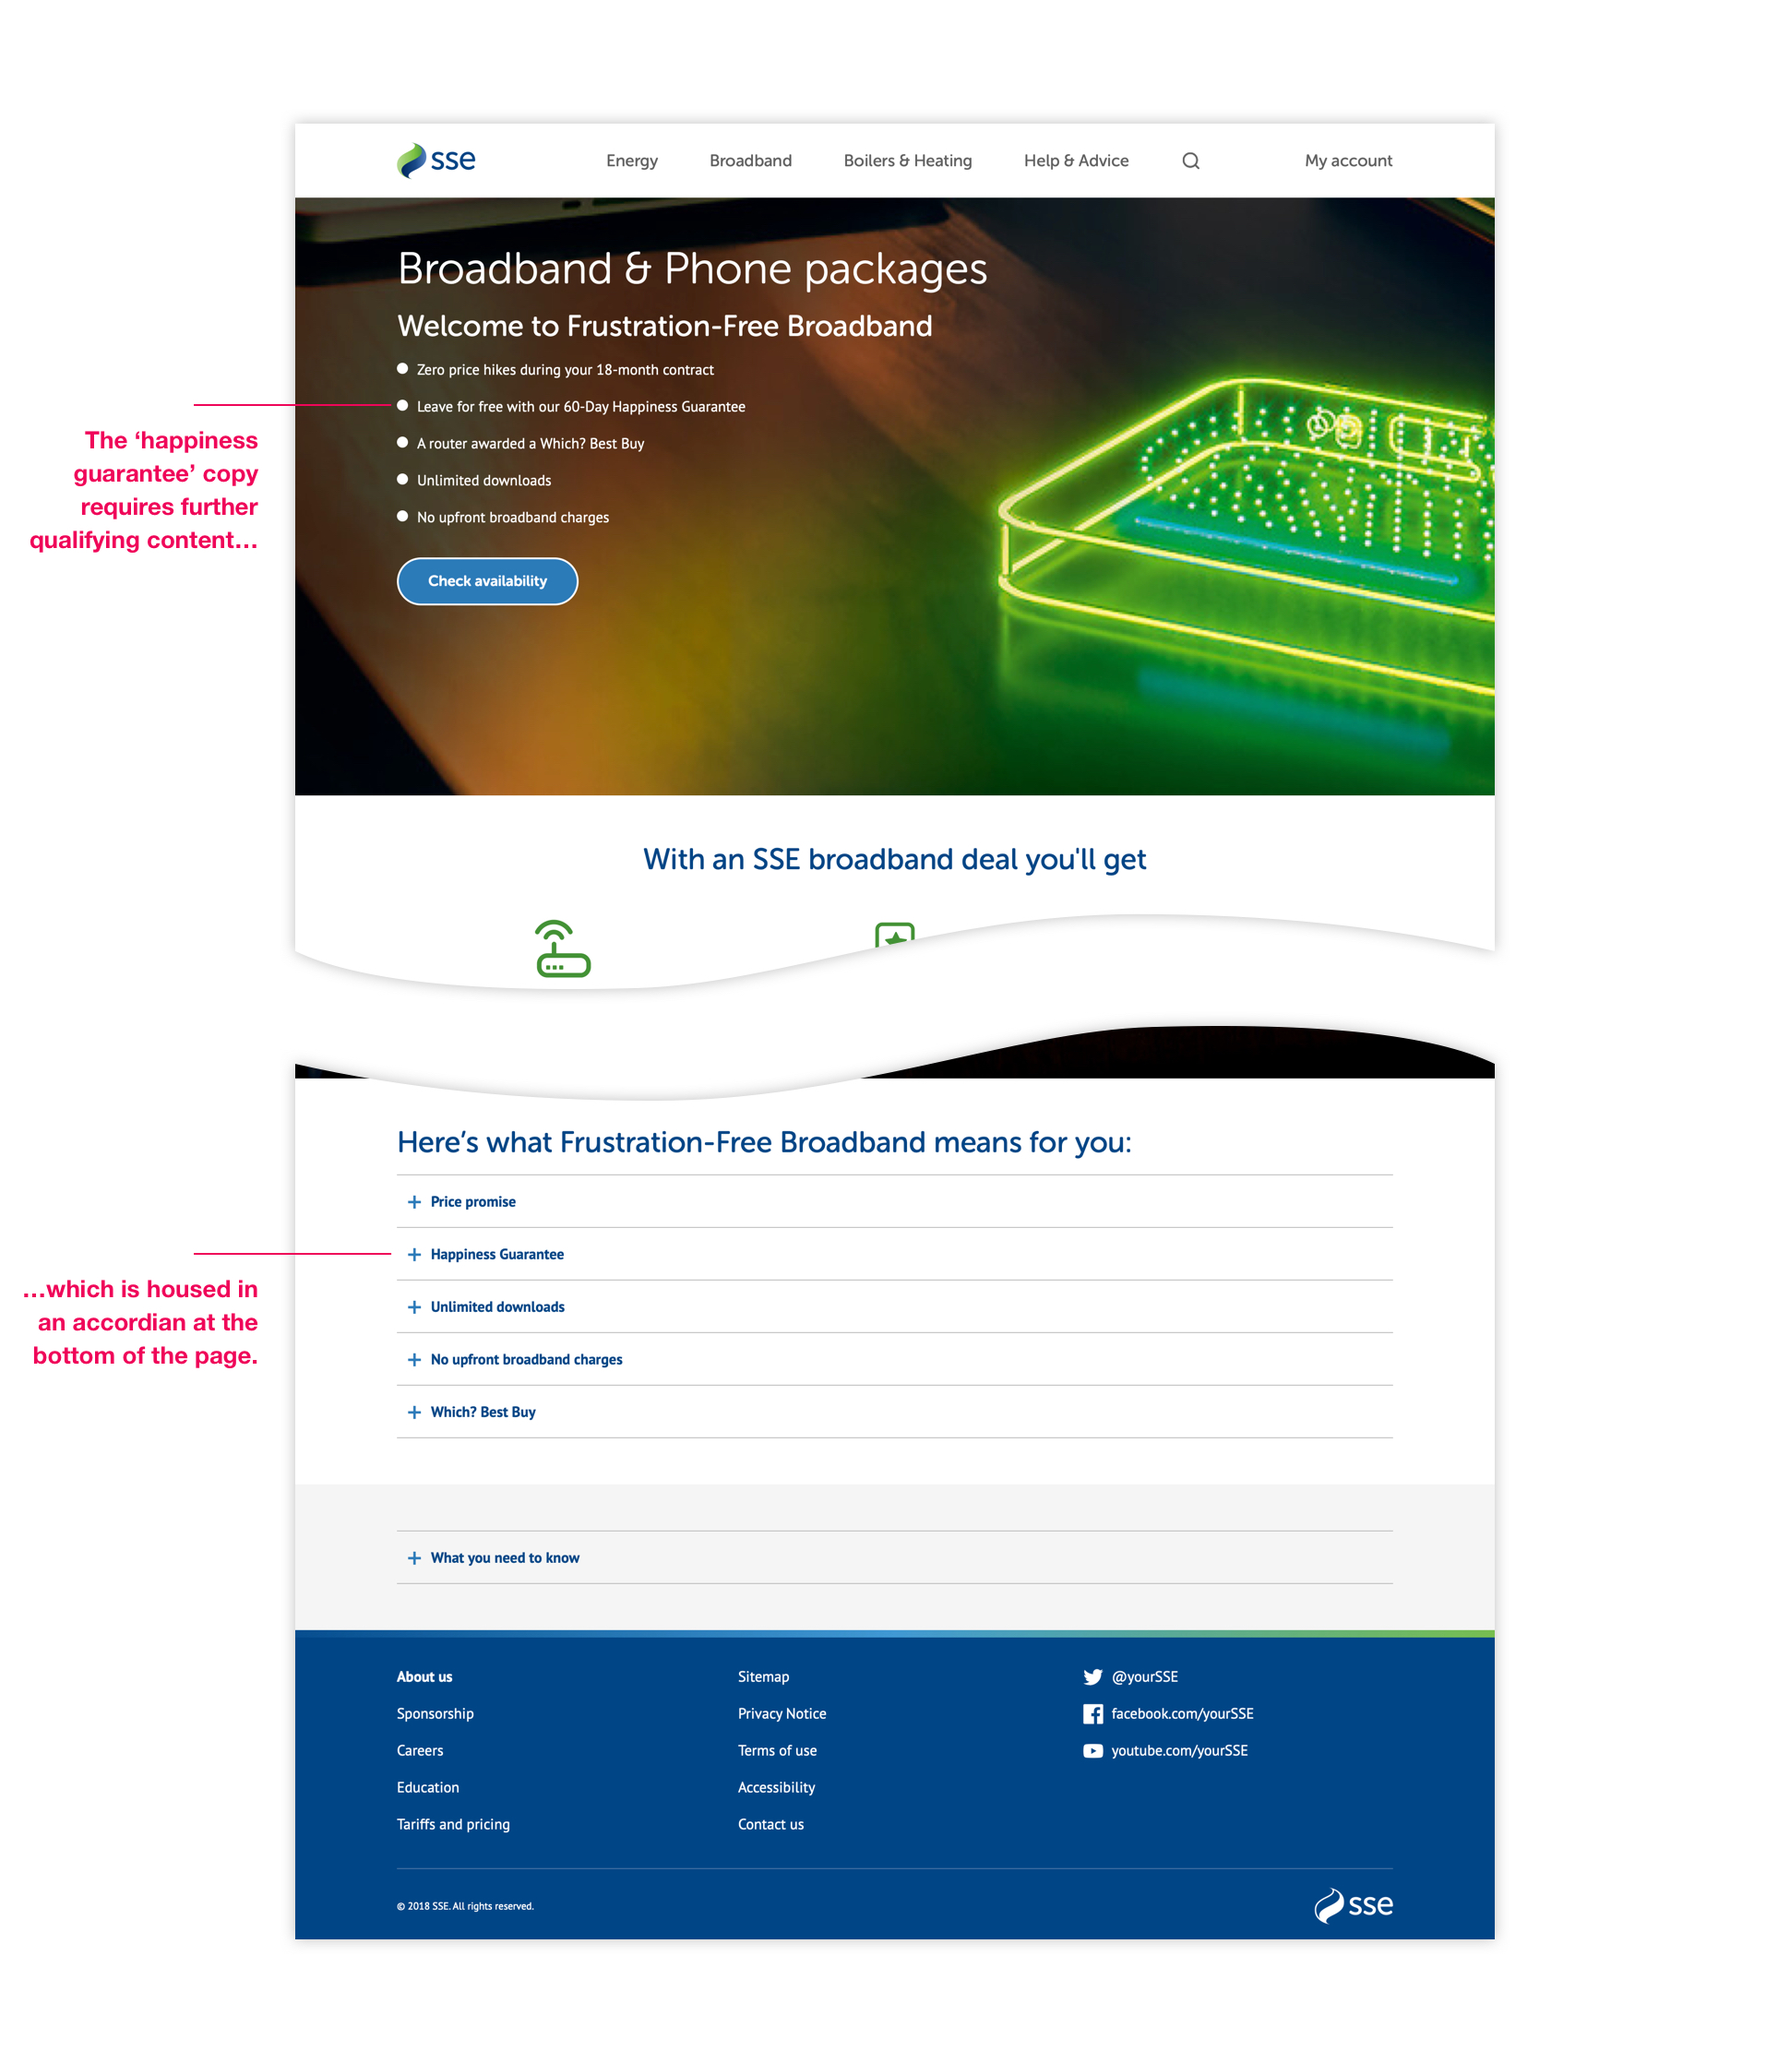
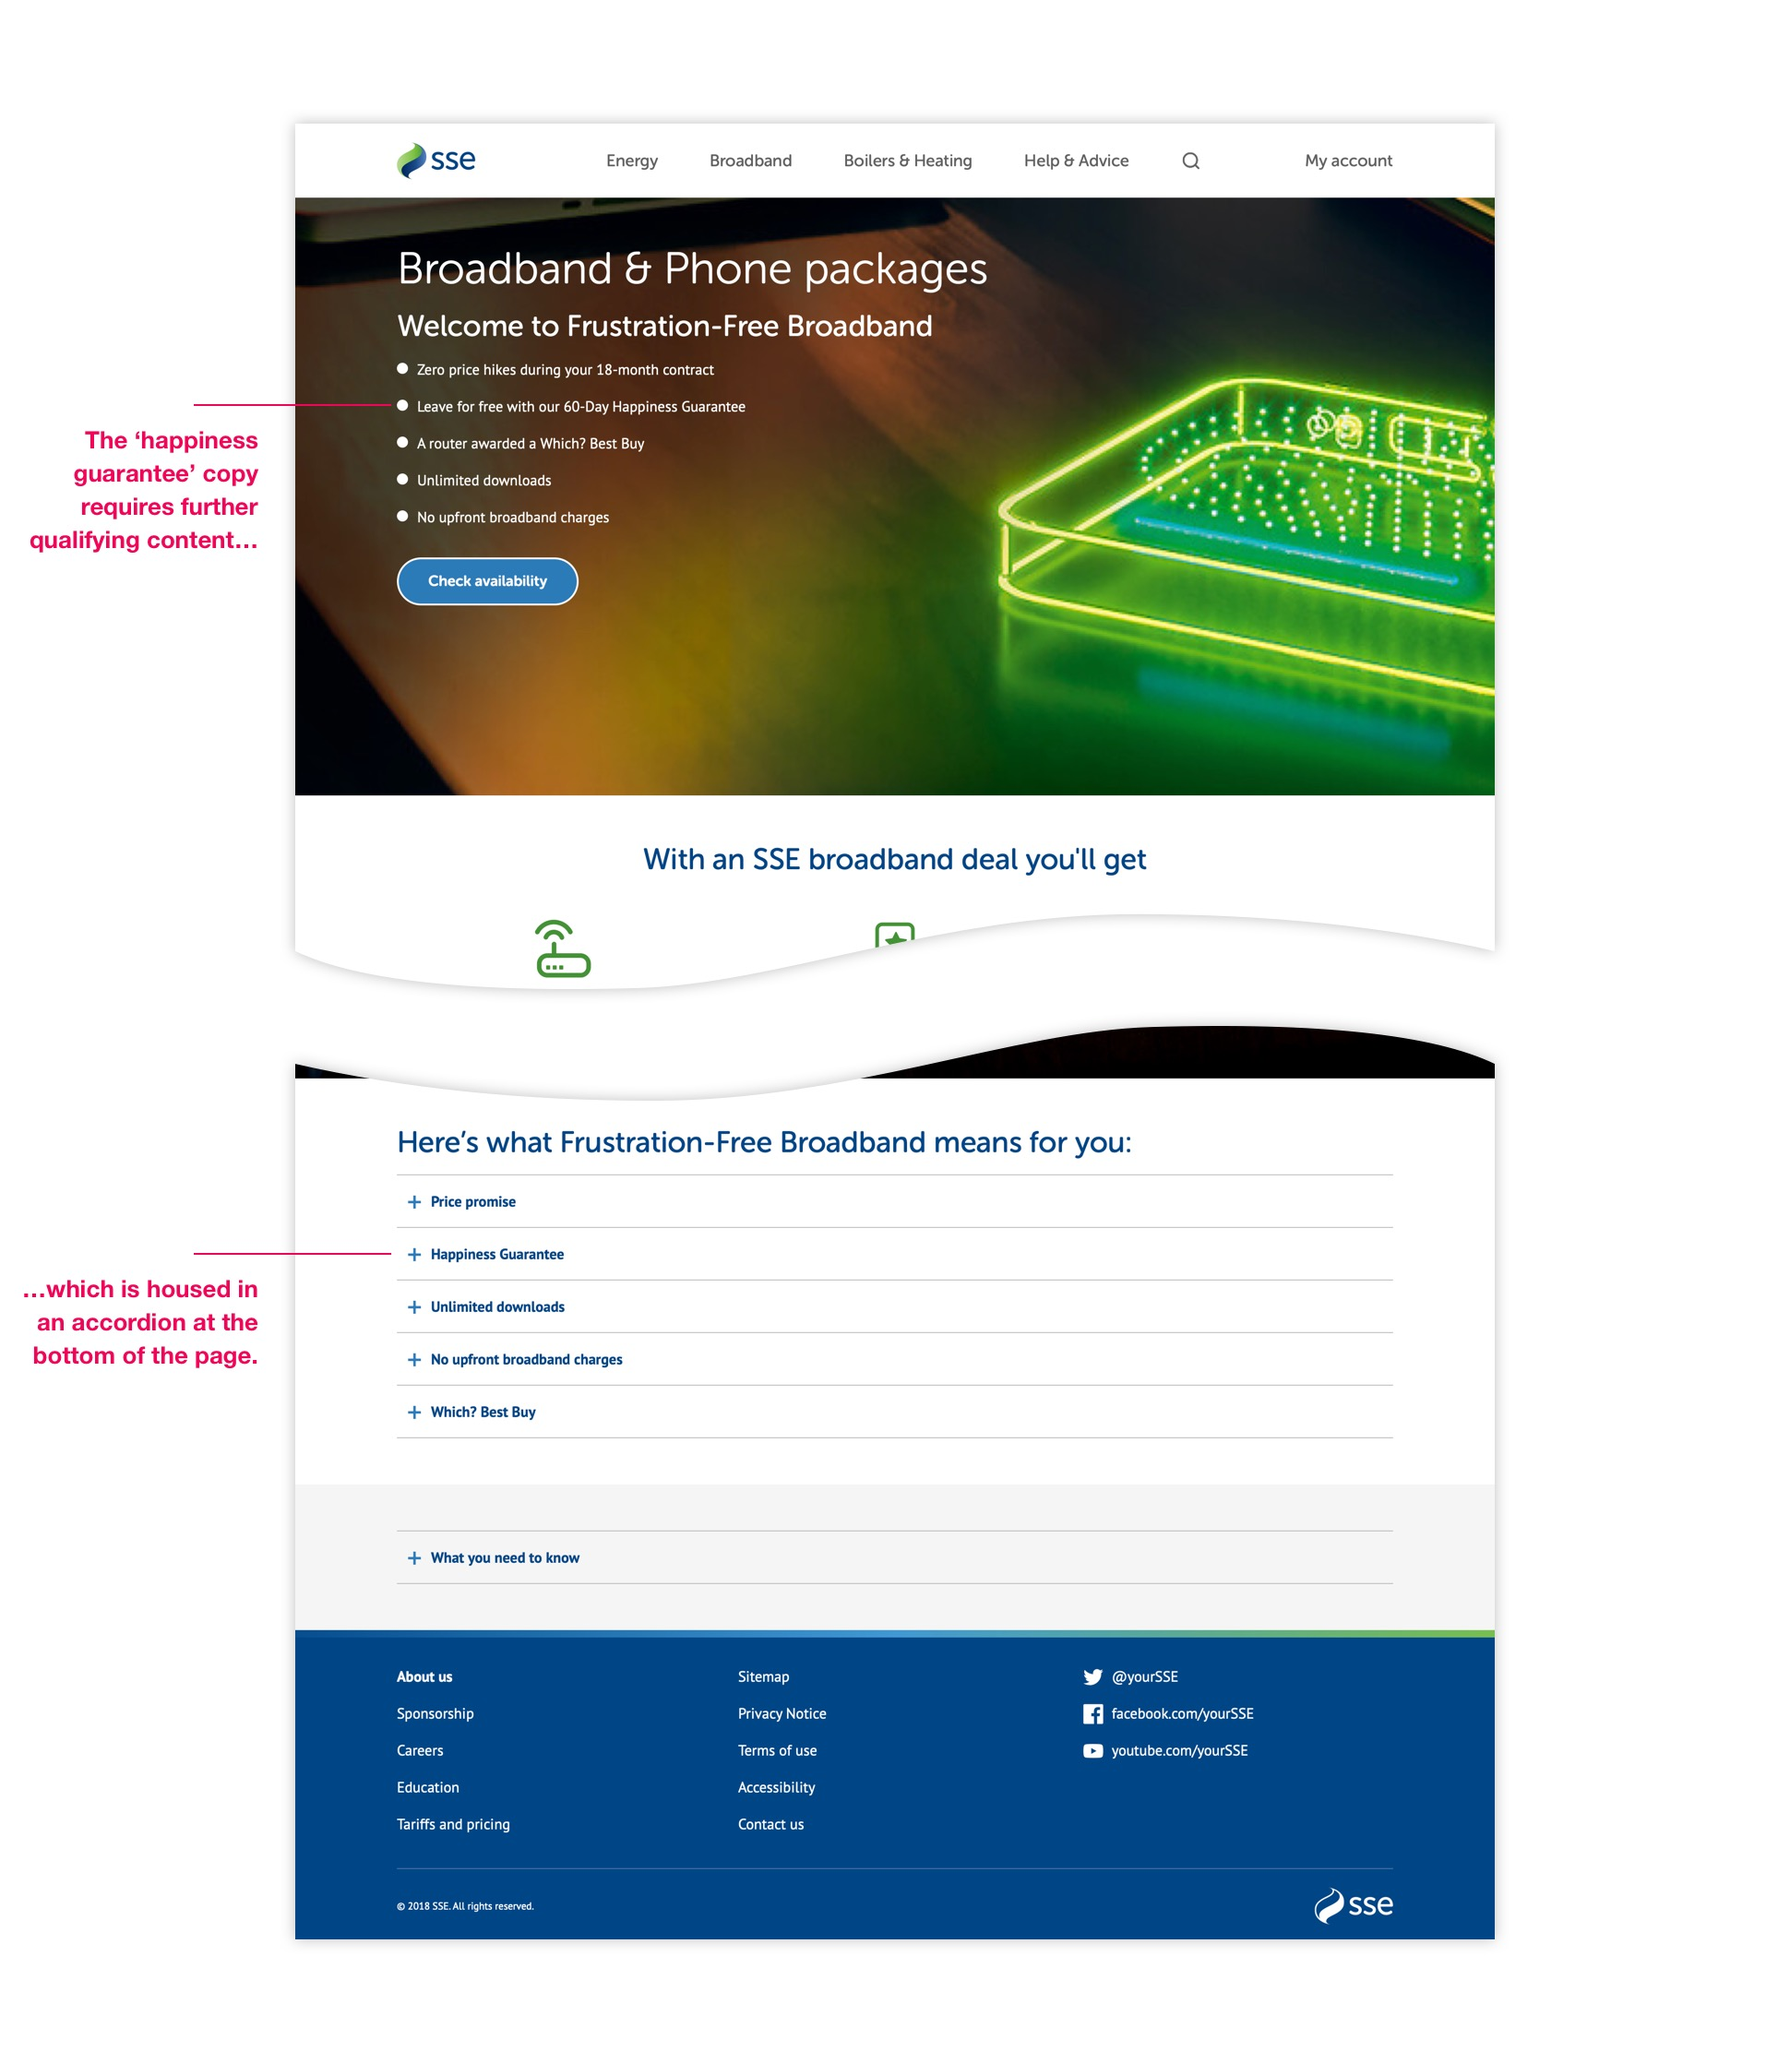
GitBook: [master] 7 pages and 4 assets modified

Changed region(s): [[0.0309, 0.216, 0.1546, 0.2777], [0.0309, 0.6172, 0.1546, 0.648]]

diff --git a/sse-digital-styleguide/our-tools/sketch.md b/sse-digital-styleguide/our-tools/sketch.md
@@ -11,6 +11,10 @@ description: >-
 
 You can download the latest version of Sketch here: [https://sketchapp.com↗](https://sketchapp.com) . There's a 30 day fully functional free trial.
 
+{% hint style="warning" %}
+Do not use any pre-release or Beta versions of Sketch for your SSE work. They're often unreliable and using them makes it harder to collaborate with your colleagues.
+{% endhint %}
+
 ## Setting up Sketch
 
 Once installed, follow these steps to get Sketch all set up.
@@ -23,43 +27,19 @@ This feature is turned on by default, so you'll need to manually go and turn it 
 * Files created in a newer version of Sketch cannot easily be opened in an older version, so if you have a newer version of Sketch and open a file, it means someone with an older version of Sketch cannot open it.
 * Saving your work often should be part of our workflow. Software & systems are not infallible, so hit ⌘-S often!
 
-## Adding the SSE Digital Library to Sketch
+### 2. Setup your workspace & plugins
 
-We have a master Sketch library that contains all the components required to build digital SSE products. We store this on OneDrive so that any updates are instantly available to everyone. To add the library to Sketch, go to Preferences &gt; Libraries in Sketch and click 'Add Library..."
-
-![](../../.gitbook/assets/sketch-add-library.jpg)
-
-In the dialog box that follows, locate the SSE Digital Library file and click 'Open'. The library should now appear in your list of libraries.
-
-![](../../.gitbook/assets/sketch-library-added.jpg)
-
-## Using the Digital Library
-
-If you're familiar with how to use Libraries, Symbols and Overrides in Sketch, you'll be able to start using the Digital Library straight away. If you're not familiar with these features, the official Sketch website has some great starter content.
-
-{% embed url="https://sketchapp.com/docs/libraries/" %}
-
-{% embed url="https://sketchapp.com/docs/symbols/" %}
-
-{% embed url="https://sketchapp.com/docs/symbols/overrides/" %}
-
-## Updating the Digital Library
-
-The SSE Digital Library is a living, breathing document and is updated as & when required. When an update is available, Sketch will prompt you in the top-right of the app window that the updated library is ready. Clicking this notification will open a sheet showing what's changed.
-
-![When you see this, updates are available!](../../.gitbook/assets/lib-update-available.jpg)
-
-![A sheet explains what&apos;s new in this version of the Library.](../../.gitbook/assets/lib-update-details.jpg)
+Everyone has a unique way of working within Sketch, so take a moment to get it setup right for you. Get your toolbar the way you like it and install any plugins you normally use.
 
 ## Useful Sketch plugins
 
 There are a variety of Sketch plugins we use to simplify aspects of our workflow.
 
-### Sketch Runner
+### ~~Sketch Runner~~ \(Sketch runner is now a paid-for plugin\)
 
-A powerful tool that allows you to run certain commands using keyboard shortcuts. This saves hunting through menus to find the commands you need. Once you've found which shortcuts you personally find useful, Runner starts to become a great time saver.
+~~A powerful tool that allows you to run certain commands using keyboard shortcuts. This saves hunting through menus to find the commands you need. Once you've found which shortcuts you personally find useful, Runner starts to become a great time saver.~~
 
-[https://sketchrunner.com](https://sketchrunner.com/)[↗](https://sketchrunner.com/)
+~~https://sketchrunner.com↗~~
 
 ### Automate Sketch
 
@@ -84,6 +64,4 @@ Rename symbol instances to the name of their master.
 Craft is a bunch of useful plugins that can make the design process easier. It also integrates with our prototyping tool InVision.
 
 [https://www.invisionapp.com/craft ↗](https://www.invisionapp.com/craft)
-
-
 

diff --git a/SUMMARY.md b/SUMMARY.md
@@ -9,6 +9,10 @@
 * [Designing for Accessibility](sse-digital-styleguide/designing-for-accessibility.md)
 * [Our Tools](sse-digital-styleguide/our-tools/README.md)
   * [Sketch](sse-digital-styleguide/our-tools/sketch.md)
+  * [The SSE Digital Library](sse-digital-styleguide/our-tools/the-sse-digital-library/README.md)
+    * [Adding the SSE Digital Library to Sketch](sse-digital-styleguide/our-tools/the-sse-digital-library/adding-the-sse-digital-library-to-sketch.md)
+    * [Using the Digital Library](sse-digital-styleguide/our-tools/the-sse-digital-library/using-the-digital-library.md)
+    * [Staying Up to Date](sse-digital-styleguide/our-tools/the-sse-digital-library/staying-up-to-date.md)
   * [Zeplin](sse-digital-styleguide/our-tools/zeplin.md)
   * [InVision](sse-digital-styleguide/our-tools/invision.md)
   * [Adobe Creative Cloud](sse-digital-styleguide/our-tools/adobe-creative-cloud.md)

diff --git a/sse-digital-styleguide/our-tools/the-sse-digital-library/adding-the-sse-digital-library-to-sketch.md b/sse-digital-styleguide/our-tools/the-sse-digital-library/adding-the-sse-digital-library-to-sketch.md
@@ -1,0 +1,20 @@
+# Adding the SSE Digital Library to Sketch
+
+To add the SSE Digital Library to Sketch, go to Preferences &gt; Libraries in Sketch and click 'Add Library..."
+
+![](../../../.gitbook/assets/sketch-add-library.jpg)
+
+In the dialog box that follows, locate the SSE Digital Library file and click 'Open'.
+
+{% hint style="info" %}
+The library is located in our shared OneDrive space – talk to a member of the UX team if you can't find it.
+{% endhint %}
+
+![](../../../.gitbook/assets/sketch-locate-library.jpg)
+
+The SSE Digital Library should now appear in your list of libraries. That's it, you're now ready to use the library!
+
+![](../../../.gitbook/assets/sketch-library-added.jpg)
+
+## 
+

diff --git a/website-patterns/disclaimers-and-qualifiers.md b/website-patterns/disclaimers-and-qualifiers.md
@@ -2,7 +2,7 @@
 
 
 
-If a specific piece of information requires further clarification, disclaimers or qualifiers, we handle this by presenting an accordian at the bottom of the page.
+If a specific piece of information requires further clarification, disclaimers or qualifiers, we handle this by presenting an accordion at the bottom of the page.
 
 We don't use asterisks, footnotes or other textual decorations to indicate where more information is available. This maintains readbility of our content and the clarity of its presentation.
 

diff --git a/sse-digital-styleguide/our-tools/the-sse-digital-library/staying-up-to-date.md b/sse-digital-styleguide/our-tools/the-sse-digital-library/staying-up-to-date.md
@@ -1,0 +1,8 @@
+# Staying Up to Date
+
+The SSE Digital Library is a living, breathing document and is updated as & when required. When an update is available, Sketch will prompt you in the top-right of the app window that the updated library is ready. Clicking this notification will open a sheet showing what's changed.
+
+![When you see this, updates are available!](../../../.gitbook/assets/lib-update-available.jpg)
+
+![A sheet explains what&apos;s new in this version of the Library.](../../../.gitbook/assets/lib-update-details.jpg)
+

diff --git a/sse-digital-styleguide/our-tools/the-sse-digital-library/using-the-digital-library.md b/sse-digital-styleguide/our-tools/the-sse-digital-library/using-the-digital-library.md
@@ -1,0 +1,12 @@
+# Using the Digital Library
+
+If you're familiar with how to use Libraries, Symbols and Overrides in Sketch, you'll be able to start using the Digital Library straight away. If you're not familiar with these features, the official Sketch website has some great starter content.
+
+{% embed url="https://sketchapp.com/docs/libraries/" %}
+
+{% embed url="https://sketchapp.com/docs/symbols/" %}
+
+{% embed url="https://sketchapp.com/docs/symbols/overrides/" %}
+
+## 
+

diff --git a/sse-digital-styleguide/our-tools/the-sse-digital-library/README.md b/sse-digital-styleguide/our-tools/the-sse-digital-library/README.md
@@ -1,0 +1,6 @@
+# The SSE Digital Library
+
+We have a master Sketch library containing all the assets needed to create SSE digital products. Once [you've added it as a library](adding-the-sse-digital-library-to-sketch.md), you'll have everything you need to do your work.
+
+The library is a living, breathing document that we add to as & when we need. When updates are available, [Sketch will tell you](staying-up-to-date.md).
+
